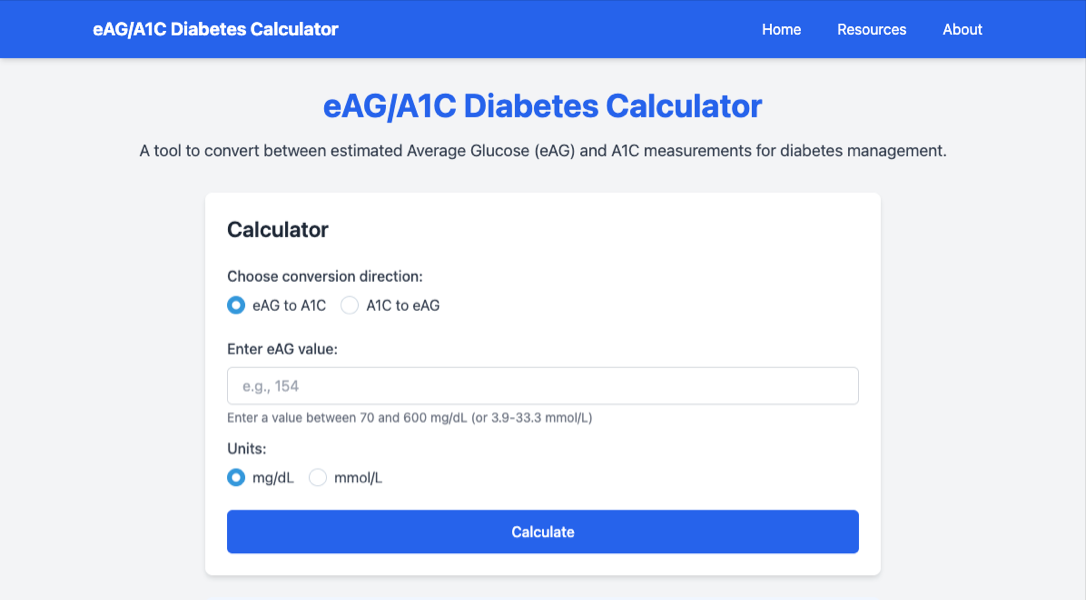
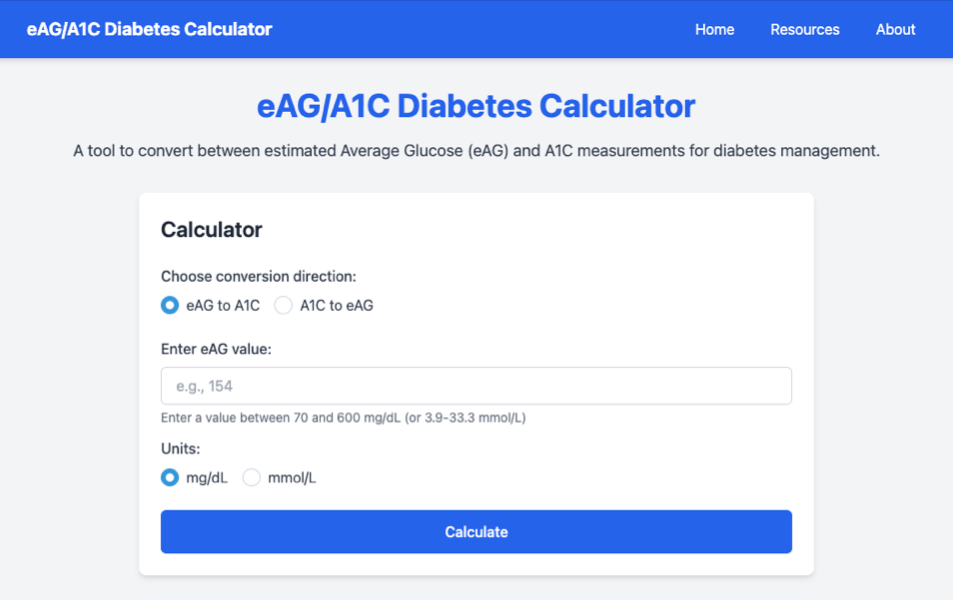
Add About A1C, About eAG, and Important Note sections to homepage

diff --git a/index.html b/index.html
@@ -80,7 +80,7 @@
         <header class="text-center mb-8">
             <h1 class="text-3xl md:text-4xl font-bold text-blue-600 mb-4">eAG/A1C Diabetes Calculator</h1>
             <p class="text-lg text-gray-700">
-                A tool to convert between estimated Average Glucose (eAG) and A1C measurements for diabetes management.
+                Convert between estimated Average Glucose (eAG) and A1C measurements for diabetes management.
             </p>
         </header>
 
@@ -174,7 +174,7 @@
         </main>
 
         <!-- How to Use Section -->
-        <div class="bg-blue-50 rounded-lg p-4 mt-6 w-full lg:w-3/4 mx-auto">
+        <div class="bg-blue-50 rounded-lg p-4 mt-6 w-full lg:w-3/4 mx-auto border border-blue-200">
             <h2 class="text-lg font-semibold text-blue-800 mb-2">📋 How to Use</h2>
             <ol class="list-decimal list-inside text-gray-700 space-y-1 text-sm">
                 <li><strong>Select conversion direction:</strong> Choose whether to convert from eAG to A1C or A1C to eAG</li>
@@ -182,6 +182,41 @@
                 <li><strong>Click Calculate:</strong> View your converted result with an explanation</li>
             </ol>
             <p class="text-xs text-gray-500 mt-2">This calculator uses the ADA-approved formula. Results are for informational purposes only—consult your healthcare provider for medical advice.</p>
+        </div>
+
+        <!-- Important Note -->
+        <div class="bg-blue-50 rounded-lg p-4 mt-6 w-full lg:w-3/4 mx-auto border border-blue-200">
+            <h2 class="text-lg font-semibold text-gray-800 mb-2">Important Note</h2>
+            <p class="text-gray-700 text-sm">This calculator is for educational purposes only. Always consult with your healthcare provider for medical advice and diabetes management.</p>
+        </div>
+
+        <!-- About A1C Section -->
+        <div class="bg-white rounded-lg shadow-md p-6 mt-6 w-full lg:w-3/4 mx-auto">
+            <h2 class="text-xl font-semibold text-gray-800 mb-3 flex items-center">
+                <svg class="w-5 h-5 mr-2 text-blue-600" fill="none" stroke="currentColor" viewBox="0 0 24 24">
+                    <path stroke-linecap="round" stroke-linejoin="round" stroke-width="2" d="M13 16h-1v-4h-1m1-4h.01M21 12a9 9 0 11-18 0 9 9 0 0118 0z"></path>
+                </svg>
+                About A1C
+            </h2>
+            <p class="text-gray-700 mb-3">A1C (hemoglobin A1C) is a blood test that reflects your average blood sugar levels over the past 2-3 months.</p>
+            <p class="font-medium text-gray-800 mb-2">Target Ranges:</p>
+            <ul class="list-disc list-inside text-gray-700 space-y-1 text-sm">
+                <li>Normal: Below 5.7%</li>
+                <li>Prediabetes: 5.7% - 6.4%</li>
+                <li>Diabetes: 6.5% or higher</li>
+            </ul>
+        </div>
+
+        <!-- About eAG Section -->
+        <div class="bg-white rounded-lg shadow-md p-6 mt-6 w-full lg:w-3/4 mx-auto">
+            <h2 class="text-xl font-semibold text-gray-800 mb-3 flex items-center">
+                <svg class="w-5 h-5 mr-2 text-blue-600" fill="none" stroke="currentColor" viewBox="0 0 24 24">
+                    <path stroke-linecap="round" stroke-linejoin="round" stroke-width="2" d="M13 7h8m0 0v8m0-8l-8 8-4-4-6 6"></path>
+                </svg>
+                About eAG
+            </h2>
+            <p class="text-gray-700 mb-3">eAG (estimated Average Glucose) translates your A1C into the same units shown on your glucose meter.</p>
+            <p class="text-gray-700 text-sm">This helps you understand how your daily glucose readings relate to your A1C test results.</p>
         </div>
 
         <!-- Support Section -->
